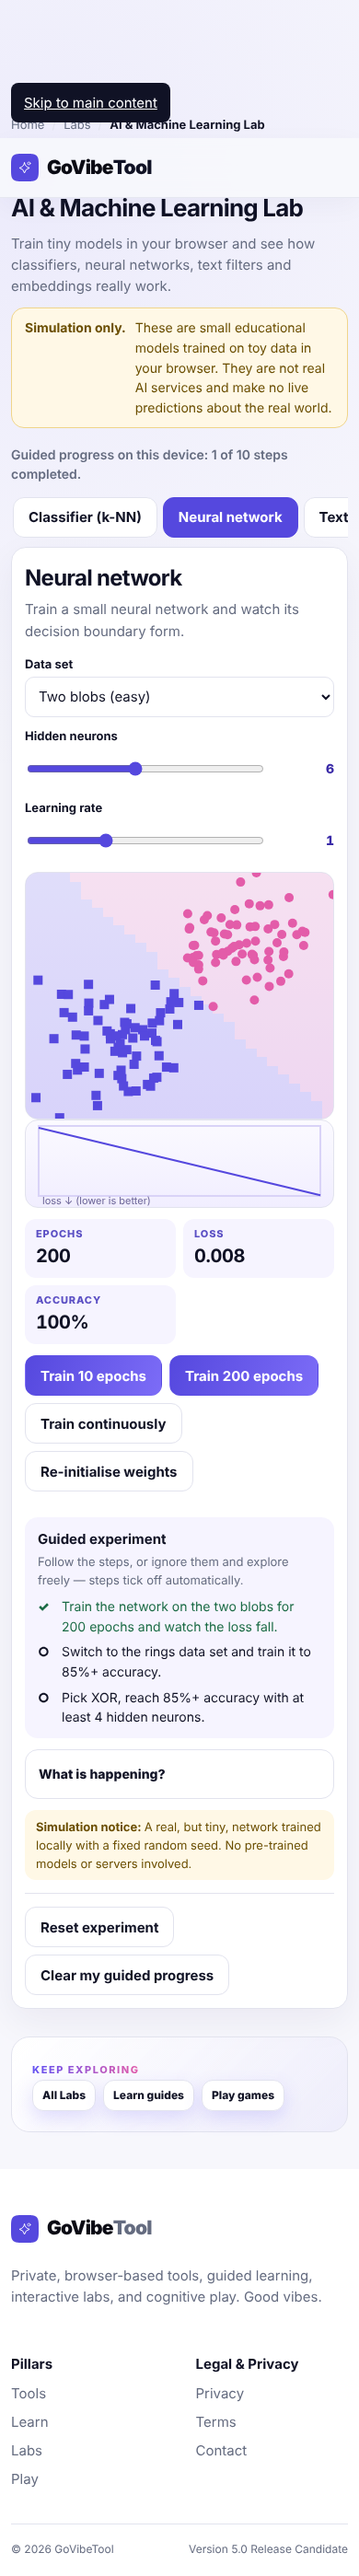
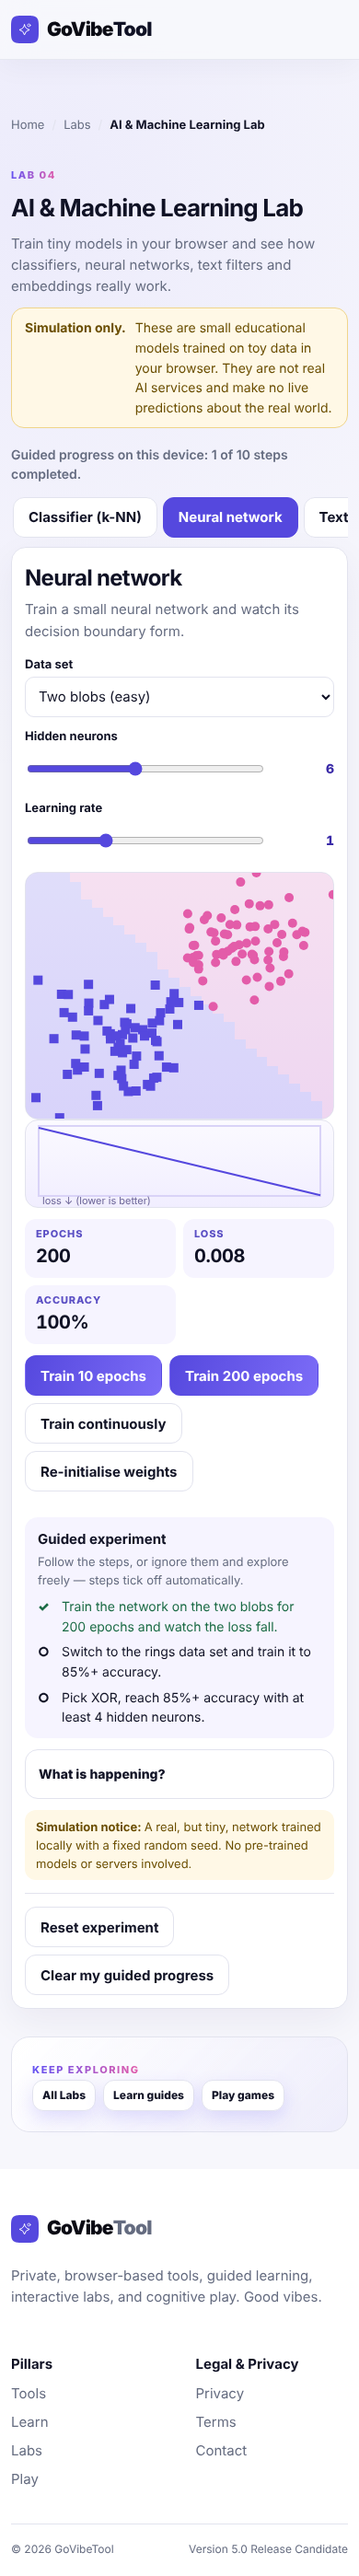
Labs QA: fix duplicated API scenario intro and squeezed mobile workflow heading; refresh docs/labs screenshots with README
Claude-Session: https://claude.ai/code/session_016s8NZtGrJNusUUWV3Wi7iz

Changed region(s): [[0.0308, 0.0, 0.4923, 0.0933]]

diff --git a/labs/api-playground/scenario-app.js b/labs/api-playground/scenario-app.js
@@ -41,7 +41,6 @@ function scenarioExp(id) {
     const sc = SCENARIOS[id]; let server, history, speed = 1;
     const fresh = () => { server = createServer(id, { seed: 7, speed }); history = []; };
     fresh();
-    stage.append(el('p', { class: 'lk-hint' }, sc.intro));
     const ep = el('div', { class: 'lk-row', role: 'group', 'aria-label': 'Example requests' }); stage.append(el('h3', {}, 'Example requests'), ep);
     const ctl = el('div', { class: 'lk-controls' }); stage.append(ctl);
     const m = select(ctl, { id: `sc-${id}-m`, label: 'Method', options: ['GET', 'POST', 'PUT', 'PATCH', 'DELETE'].map(v => ({ value: v, label: v })), value: 'GET' });

diff --git a/v5.css b/v5.css
@@ -642,3 +642,4 @@
 .wf-guide-list li span[aria-hidden] { display: inline-block; width: 20px; font-weight: 800; }
 @media (max-width: 900px) { .workflow-app { grid-template-columns: 1fr !important; height: auto !important; } .canvas-container { min-height: 460px; } }
 .sr-only{position:absolute;width:1px;height:1px;overflow:hidden;clip:rect(0 0 0 0);white-space:nowrap}
+@media (max-width: 700px) { .wf-heading { flex-direction: column; align-items: stretch; } .wf-heading .actions { justify-content: flex-start; } }

diff --git a/labs/workflow/index.html b/labs/workflow/index.html
@@ -39,7 +39,7 @@
       <strong>Visual Workflow Lab</strong>
     </nav>
 
-    <div class="section-heading" style="margin-bottom: 12px;">
+    <div class="section-heading wf-heading" style="margin-bottom: 12px;">
       <div>
         <span class="eyebrow">LAB 01 — AUTOMATION & LOGIC SIMULATOR</span>
         <h1 style="font-size: clamp(26px, 3.5vw, 36px); margin: 6px 0; letter-spacing: -.03em;">Visual Workflow Lab</h1>

diff --git a/docs/labs/README.md b/docs/labs/README.md
@@ -1,0 +1,12 @@
+# GoVibeTool Labs review screenshots
+
+Real Chromium full-page screenshots of the local checkout at 1280x900 (desktop) and 390x844 (touch mobile).
+Files: `hub-`, `workflow-`, `api-playground-`, `ai-`, `cyber-`, `science-`, `finance-` + `desktop.png` / `mobile.png`.
+
+Each lab is captured after one real interaction (workflow template run, neural network trained 200 epochs,
+one-bit hash change, projectile launched, API request sent) so results are visible.
+
+Capture notes: smooth scrolling is disabled, the page is scrolled to the top, and the sticky header and the
+off-screen "skip to content" link are neutralised for the full-page capture only. Without that, full-page
+captures of long pages draw the sticky header mid-page. The site itself is unchanged.
+No horizontal overflow and no console errors were observed on any of the 14 pages.
